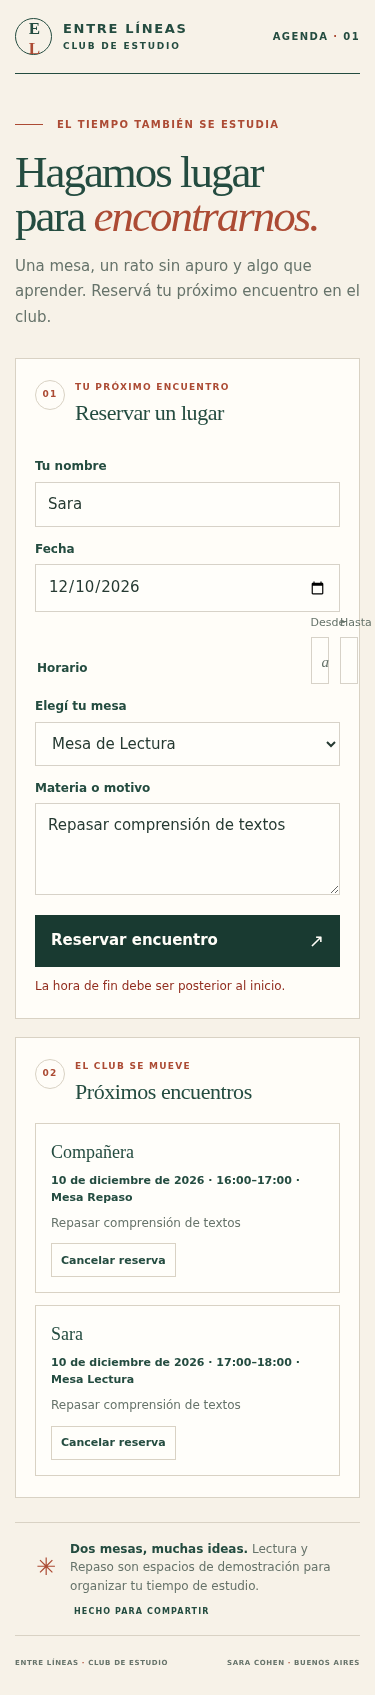
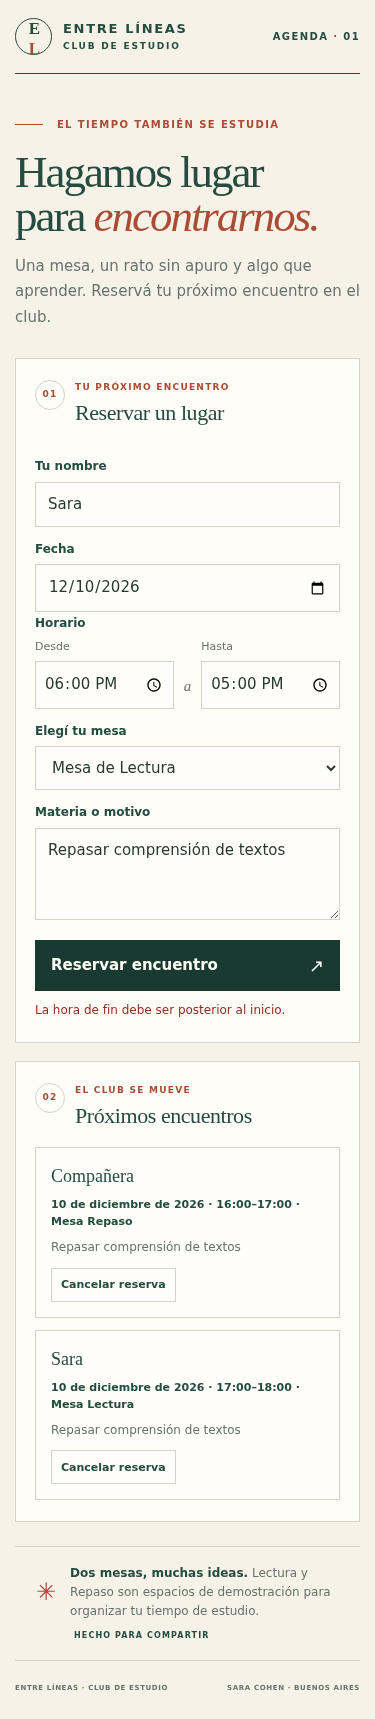
Mejora el ancho de los campos de horario

diff --git a/style.css b/style.css
@@ -49,8 +49,9 @@ h2 { margin: 0; font-size: 25px; line-height: 1.18; letter-spacing: -.02em; }
 input, select, textarea { width: 100%; min-height: 44px; border: 1px solid #d7d2c8; border-radius: 0; background: #fffefa; padding: 10px 12px; color: var(--ink); }
 input::placeholder, textarea::placeholder { color: #8a9189; }
 textarea { min-height: 76px; resize: vertical; }
-.time-fields { display: flex; align-items: end; gap: 11px; min-width: 0; margin: 2px 0 0; padding: 0; border: 0; }
-.time-fields legend { float: left; width: 100%; }
+.time-fields { display: block; min-width: 0; margin: 2px 0 0; padding: 0; border: 0; }
+.time-fields legend { float: none; padding: 0; }
+.time-row { display: grid; grid-template-columns: minmax(0,1fr) auto minmax(0,1fr); gap: 10px; align-items: end; }
 .time-fields div { flex: 1; min-width: 0; }
 .time-fields div label { display: block; margin-bottom: 6px; color: var(--muted); font-size: 11px; }
 .time-fields input { padding-inline: 8px; }

diff --git a/index.html b/index.html
@@ -42,9 +42,11 @@
 
             <fieldset class="time-fields">
               <legend>Horario</legend>
+              <div class="time-row">
               <div><label for="inicio">Desde</label><input id="inicio" name="start" type="time" required></div>
               <span class="time-divider" aria-hidden="true">a</span>
               <div><label for="fin">Hasta</label><input id="fin" name="end" type="time" required></div>
+            </div>
             </fieldset>
 
             <label for="recurso">Elegí tu mesa</label>

diff --git a/README.md b/README.md
@@ -90,3 +90,12 @@ HTML, CSS, JavaScript, Visual Studio Code, GitHub, Chrome y archivos Markdown. A
 - [x] Prompts y decisiones registrados.
 - [x] Pruebas de lógica y navegador realizadas.
 - [x] Archivos publicados en el repositorio público.
+
+
+## Ajuste visual de los horarios
+
+**Prompt de corrección:**
+
+> Los campos Desde y Hasta quedan de 18 px de ancho en escritorio. Separá el título Horario de la fila de controles, mantené las etiquetas asociadas y asegurá un ancho legible también a 320 px. Verificá que cada campo tenga al menos 100 px.
+
+La prueba de ancho reprodujo el problema. Se reemplazó la distribución del grupo por una fila interior de dos columnas, con el título por encima.

diff --git a/documentacion.md b/documentacion.md
@@ -90,3 +90,12 @@ HTML, CSS, JavaScript, Visual Studio Code, GitHub, Chrome y archivos Markdown. A
 - [x] Prompts y decisiones registrados.
 - [x] Pruebas de lógica y navegador realizadas.
 - [x] Archivos publicados en el repositorio público.
+
+
+## Ajuste visual de los horarios
+
+**Prompt de corrección:**
+
+> Los campos Desde y Hasta quedan de 18 px de ancho en escritorio. Separá el título Horario de la fila de controles, mantené las etiquetas asociadas y asegurá un ancho legible también a 320 px. Verificá que cada campo tenga al menos 100 px.
+
+La prueba de ancho reprodujo el problema. Se reemplazó la distribución del grupo por una fila interior de dos columnas, con el título por encima.
